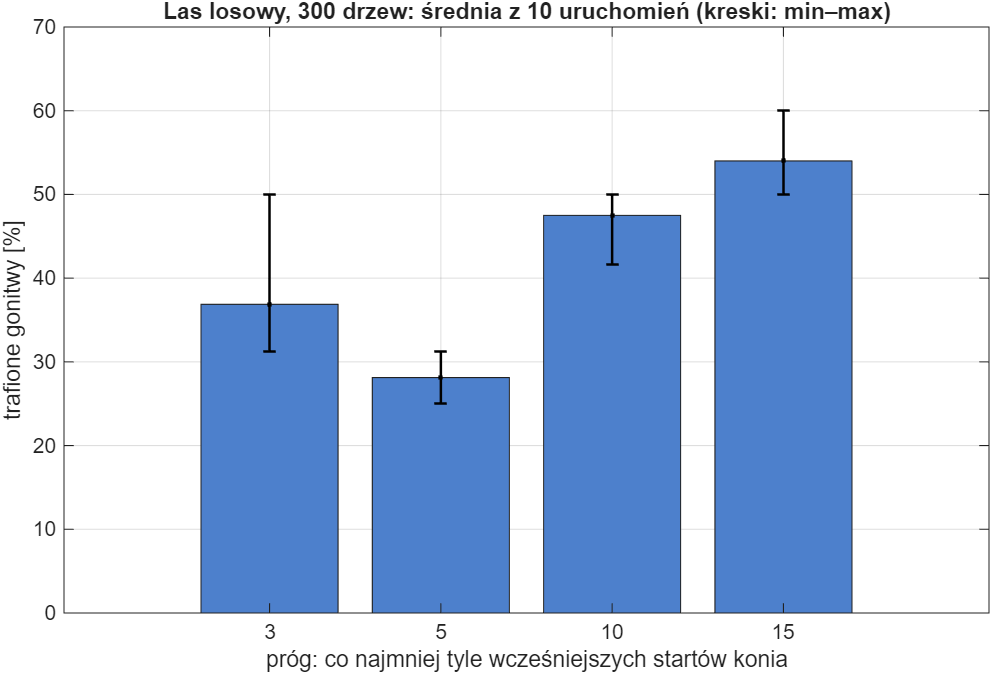
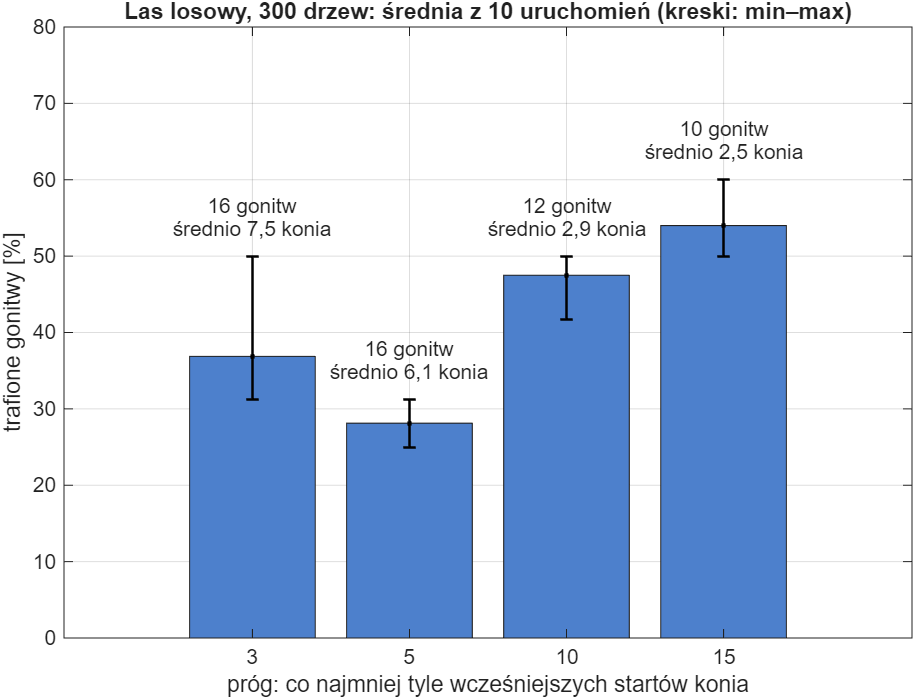
Dziennik: zajęcia 13.11 (ustalenia z prowadzącym), liczba koni nad słupkami trafności lasu

diff --git a/model/trafnosc_progi.m b/model/trafnosc_progi.m
@@ -1,4 +1,5 @@
 % Trafność lasu z test1.m dla różnych progów doświadczenia: 10 uruchomień na każdy próg.
+% Nad słupkami: ile gonitw testowych zostaje po filtrze i ilu koni średnio w nich startuje (ustalenie z zajęć 13.11).
 
 T0 = readtable('cechy_partynice.csv', 'TextType', 'string');
 cechy = ["starty_przed" "odsetek_wygranych" "odsetek_top3" "srednia_wzgl" "mediana_wzgl" ...
@@ -7,12 +8,17 @@ cechy = ["starty_przed" "odsetek_wygranych" "odsetek_top3" "srednia_wzgl" "media
 progi = [3 5 10 15];
 proby = 10;
 trafnosc = zeros(numel(progi), proby);
+gonitwy = zeros(numel(progi), 1);               % ile gonitw zostaje w teście po filtrze
+koni = zeros(numel(progi), 1);                  % ilu koni średnio startuje w gonitwie testowej
 
 for k = 1:numel(progi)
     T = T0(T0.starty_przed >= progi(k), :);
     tren = T(T.zbior_2013 == "trening", :);
     test = T(T.zbior_2013 == "test", :);
+    
     g = findgroups(test.race_id);
+    gonitwy(k) = max(g);
+    koni(k) = height(test) / gonitwy(k);
     for i = 1:proby
         rng(i);
         las = TreeBagger(300, tren(:, cechy), tren.wygral, 'Method', 'classification', 'MinLeafSize', 5);
@@ -21,16 +27,19 @@ for k = 1:numel(progi)
         trafiona = splitapply(@(p, w) w(find(p == max(p), 1)) == 1, p, test.wygral, g);
         trafnosc(k, i) = 100 * mean(trafiona);
     end
-    fprintf('próg %2d: średnio %.1f%% (min %.1f, max %.1f)\n', progi(k), mean(trafnosc(k, :)), ...
-        min(trafnosc(k, :)), max(trafnosc(k, :)));
+    fprintf('próg %2d: %2d gonitw, średnio %.1f konia; trafność %.1f%% (min %.1f, max %.1f)\n', progi(k), ...
+        gonitwy(k), koni(k), mean(trafnosc(k, :)), min(trafnosc(k, :)), max(trafnosc(k, :)));
 end
 
 sr = mean(trafnosc, 2);
-figure('Color', 'w');
+figure('Color', 'w', 'Position', [100 100 700 480]);
 bar(sr, 'FaceColor', [0.3 0.5 0.8]); hold on
 errorbar(1:numel(progi), sr, sr - min(trafnosc, [], 2), max(trafnosc, [], 2) - sr, 'k.', 'LineWidth', 1.2);
+opis = gonitwy + " gonitw" + newline + "średnio " + strrep(compose("%.1f", koni), ".", ",") + " konia";
+text((1:numel(progi))', max(trafnosc, [], 2) + 2, opis, 'HorizontalAlignment', 'center', ...
+    'VerticalAlignment', 'bottom', 'FontSize', 10);
 xticks(1:numel(progi)); xticklabels(string(progi));
-ylim([0 70]); set(gca, 'FontSize', 10); grid on
+ylim([0 80]); set(gca, 'FontSize', 10); grid on
 xlabel('próg: co najmniej tyle wcześniejszych startów konia');
 ylabel('trafione gonitwy [%]');
 title('Las losowy, 300 drzew: średnia z 10 uruchomień (kreski: min–max)');

diff --git a/DZIENNIK.md b/DZIENNIK.md
@@ -143,3 +143,32 @@ W 2026 r. punktem odniesienia mogą być gwiazdki ★ z programów.
   ![Czas uczenia a trafność](model/wykresy/las_czas_vs_trafnosc.png)
 - Kody lasu w `model/`: `test1.m` (pierwszy las), `trafnosc_progi.m`, `czas_vs_trafnosc.m`; tabelę cech buduje
   `model/zbuduj_cechy.py`.
+
+## Lab 4 – 13.11.2026: dobór cech i plan porównania modeli
+
+**Na zajęciach**
+
+- Cech ma być jak najmniej. Nowe cechy można tworzyć z już znanych (ekstrakcja, np. statystyki konia). Przy
+  selekcji odrzuca się cechy, które niosą tę samą informację (skorelowane), i cechy o małej wariancji, bo niczego
+  nie rozróżniają.
+- Redukcja wymiarowości: PCA tworzy nowe cechy jako kombinacje starych, uporządkowane od największej wariancji.
+  Zostawia się kilka pierwszych, które niosą większość informacji.
+- Setki uruchomień najlepiej liczyć w chmurze (Google Colab, Kaggle, MATLAB Online, AWS, Azure, GCP).
+- W tabeli cech przygotowany podział trzyletni `zbior_3lata`: trening 2013–2014 (175 gonitw), test 2015
+  (103 gonitwy).
+- Kacper: regresja logistyczna (`KONIKI.m`) na tych samych 14 cechach i podziałach co las.
+
+**Ustalenia z prowadzącym**
+
+- Sprawdzić, ile koni zostaje w gonitwie przy kolejnych progach doświadczenia.
+- Każdy sezon osobno: czy model radzi sobie podobnie w każdym sezonie.
+- Las losowy na 50 i na 100 drzewach, osobno.
+- Skuteczność w kolejnych sezonach: porównanie lasu i regresji, z odchyleniem standardowym i inną statystyką.
+
+**Po zajęciach**
+
+- 25.11: liczba koni przy progach. Nad słupkami wykresu trafności lasu jest liczba gonitw testowych i średnia liczba
+  koni w gonitwie. Przy progu 3 w gonitwie testowej startuje średnio 7,5 konia, a przy progu 15 tylko 2,5. Mniej koni
+  to łatwiejsze typowanie: losowy typ trafia przy progu 3 w 12,5% gonitw, a przy progu 15 w 20,8%.
+
+  ![Trafność lasu dla progów z liczbą koni](model/wykresy/las_trafnosc_progi.png)
